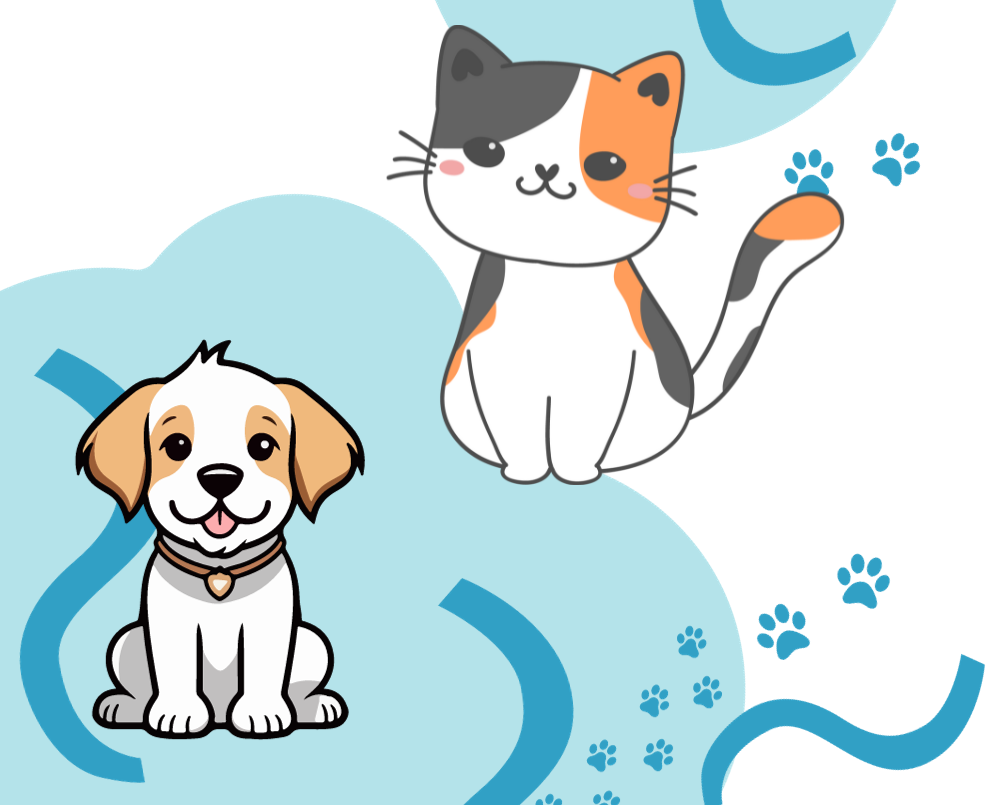
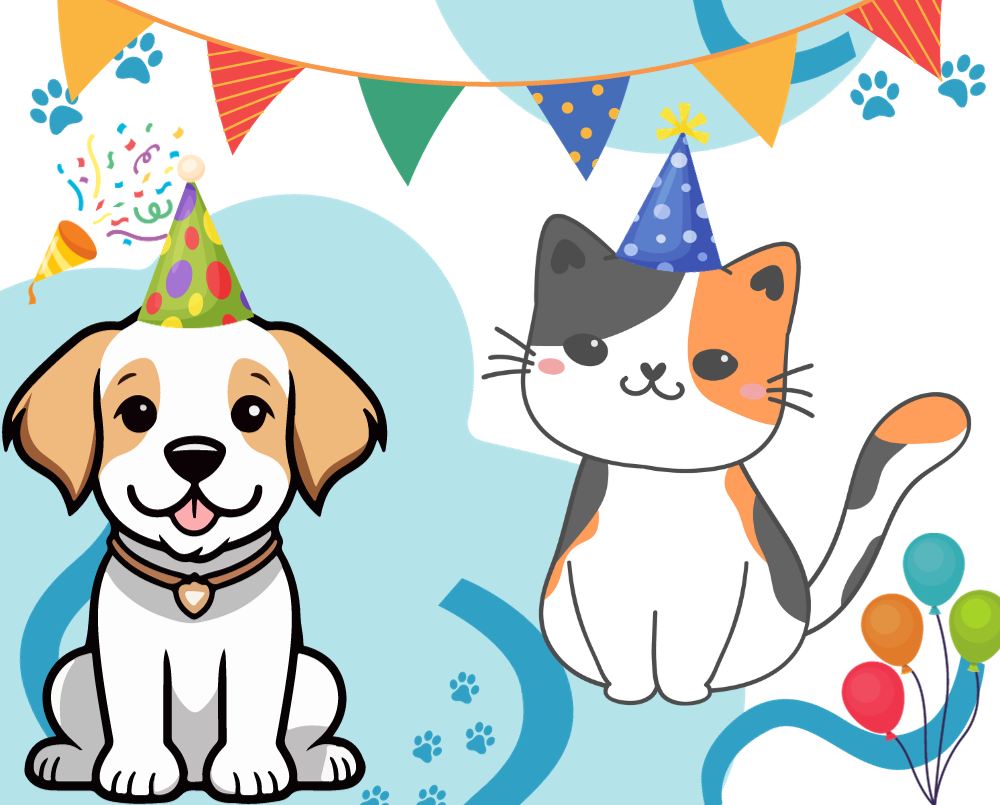
:sparkles: Added specials section

diff --git a/components/Specials/index.tsx b/components/Specials/index.tsx
@@ -1,0 +1,54 @@
+import Image from "next/image";
+import Link from "next/link";
+
+const Specials = () => {
+  return (
+    <div className="mx-auto max-w-7xl pt-20 sm:pb-24 px-6" id="promociones">
+      <div className="grid grid-cols-1 lg:grid-cols-12 space-x-1">
+        <div className="col-span-6 flex justify-center">
+          <Image
+            src="/assets/specials/1er-año.png"
+            alt="payment"
+            width={500}
+            height={500}
+          />
+        </div>
+
+        <div className="col-span-6 flex flex-col justify-center mb-32">
+          <h2 className="text-midnightblue text-4xl sm:text-5xl font-semibold text-center lg:text-start lh-143">
+            Promociones especiales: 1er aniversario
+          </h2>
+          <h3 className="text-black text-lg font-normal text-center lg:text-start lh-173 opacity-75 pt-3">
+          ¡Felicidades a VET FAMILY por su 1 er año 🎉🎉
+          </h3>
+          <Link
+            href="/blog/1er-aniversario-de-vet-family"
+            className="text-electricblue text-lg font-medium flex gap-2 pt-4 mx-auto lg:mx-0"
+          >
+          Consulta nuestras promociones especiales:
+            <Image
+              src="/assets/people/arrow-right.svg"
+              alt="arrow-right"
+              width={24}
+              height={24}
+            />
+          </Link>
+          <Link
+            href="/blog/concurso-especial-family-vet-1er-aniversario"
+            className="text-electricblue text-lg font-medium flex gap-2 pt-4 mx-auto lg:mx-0"
+          >
+          Participa en nuestro concurso de aniversario:
+            <Image
+              src="/assets/people/arrow-right.svg"
+              alt="arrow-right"
+              width={24}
+              height={24}
+            />
+          </Link>
+        </div>
+      </div>
+    </div>
+  );
+};
+
+export default Specials;

diff --git a/components/Blog/Post.tsx b/components/Blog/Post.tsx
@@ -18,20 +18,37 @@ export default function Post({ post }: { post: SanityDocument }) {
   }
 
   return (
-    <main className="container mx-auto prose prose-lg py-16 px-12 md:px-2">
-      <h1 style={{ fontSize: '2rem' }}>{post.title || "Untitled"}</h1>
-      {post?.mainImage ? (
-        <Image
-          className="float-left m-0 w-1/3 mr-4 rounded-lg"
-          src={builder.image(post.mainImage).width(300).height(300).url()}
-          width={300}
-          height={300}
-          alt={post?.mainImage?.alt || ""}
-        />
-      ) : null}
-      {post?.body ? <PortableText value={post.body} /> : null}
-      <hr className="my-8 border-t border-gray-400" />
-      <Share post={post} />
+    <section className="mx-8">
+    <main className="container my-4 mx-auto">
+      <div className="-mx-4 flex flex-wrap justify-center">
+        <div className="w-full px-4 lg:w-8/12">
+        {post?.mainImage ? (
+           <div className="mx-auto max-w-[500px]"> 
+            <Image
+              className="rounded-lg border pb-12"
+              src={builder.image(post.mainImage).url()}
+              width={500}
+              height={500}
+              alt={post?.mainImage?.alt || ""}
+            />
+            </div>
+          ) : null}
+          
+          <h1>
+            <span className="mb-8 text-3xl font-bold leading-tight text-white dark:text-black sm:text-4xl sm:leading-tight">
+              {post.title || "Untitled"}
+            </span>
+          </h1>
+         
+          <div className="prose prose-xl prose-blue mt-16">
+          {post?.body ? <PortableText value={post.body} /> : null}
+          </div>
+          <hr className="my-8 border-t border-gray-400" />
+          <Share post={post} />
+          
+        </div>
+      </div>
     </main>
+    </section>
   );
 }

diff --git a/app/(main)/page.tsx b/app/(main)/page.tsx
@@ -1,10 +1,11 @@
 import Banner from "../../components/Banner/index";
-import Reviews from "../../components/Reviews/index";
+// import Reviews from "../../components/Reviews/index";
 import Servicios from "../../components/Servicios/index";
 import Business from "../../components/Business/index";
 import HomeDelivery from "../../components/HomeDelivery/index";
 import Location from "../../components/Location/";
 import Contact, { FormProps } from "../../components/Contact";
+import Specials from "@/components/Specials";
 
 export default async function Home() {
   const formProps: FormProps = {
@@ -17,7 +18,8 @@ export default async function Home() {
   return (
     <main>
       <Banner />
-      <Reviews />
+      <Specials />
+      {/* <Reviews /> */}
       <Servicios />
       <Business />
       <HomeDelivery />

diff --git a/components/Navbar/Navbar.tsx b/components/Navbar/Navbar.tsx
@@ -16,7 +16,7 @@ interface NavigationItem {
 }
 
 const navigation: NavigationItem[] = [
-  { name: "Testimonios", href: "#Testimonios", current: true },
+  { name: "Promociones", href: "#promociones", current: true },
   { name: "Servicios", href: "#servicios", current: false },
   { name: "Blog", href: "/blog", current: false },
   { name: "Contacto", href: "#contacto", current: false },
